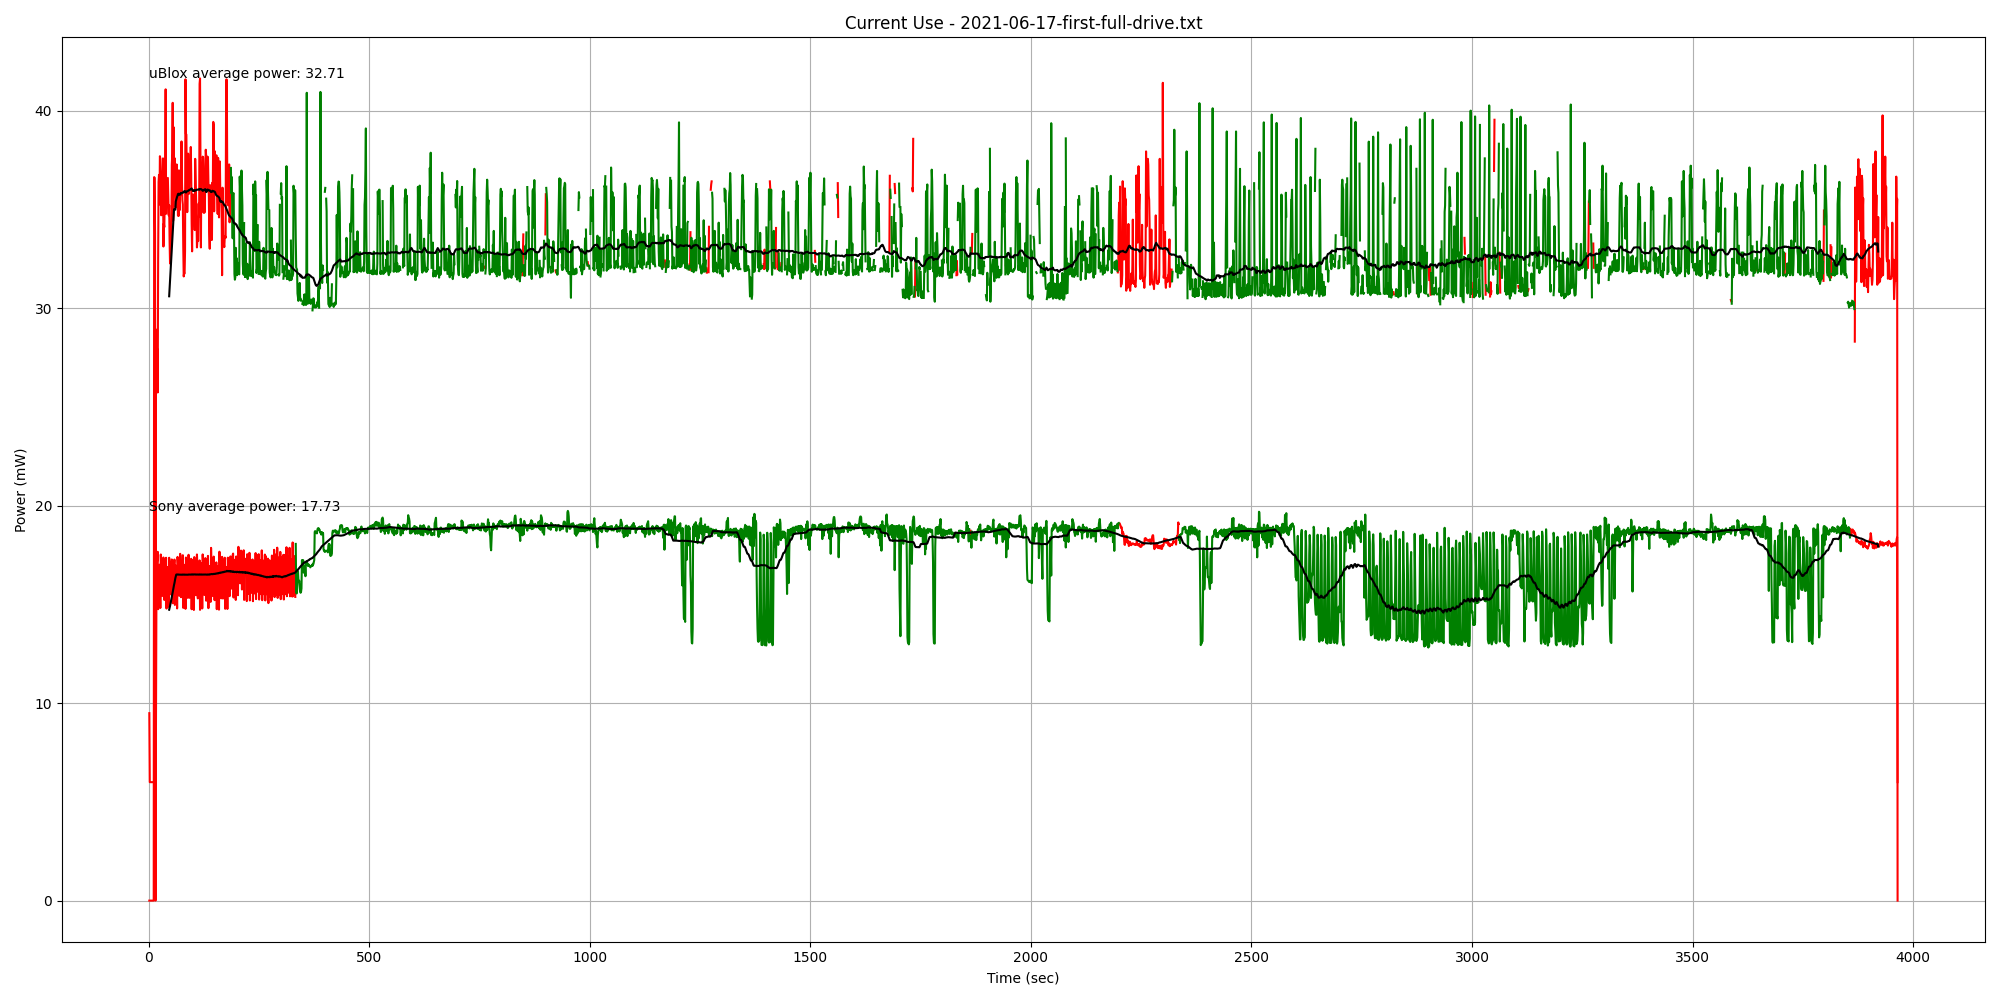
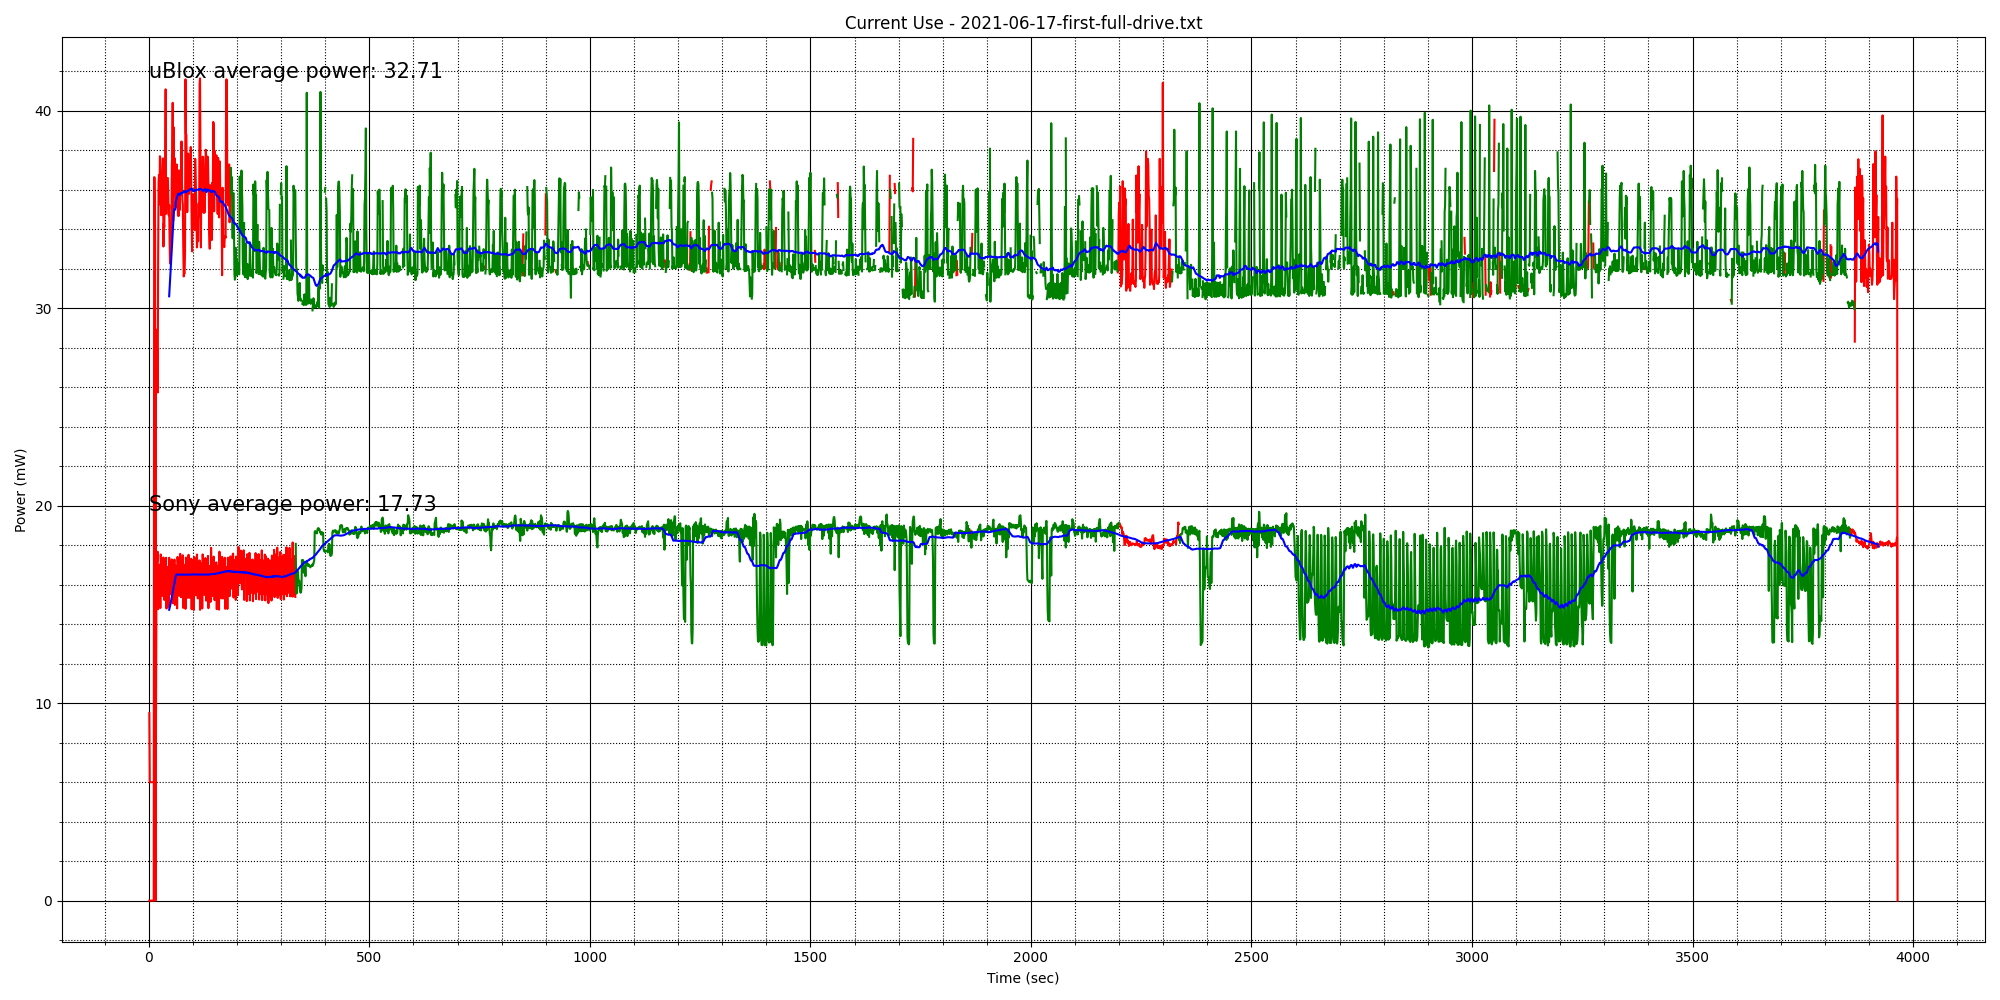
update currents plot to have major/minor grid

diff --git a/src/app/datalogger/process.py b/src/app/datalogger/process.py
@@ -251,12 +251,15 @@ class Log:
 
             ax = unlocked['power_mw'].plot(grid=True, figsize=(20, 10), ax=ax, color='red')
             locked['power_mw'].plot(grid=True, ax=ax, color='green')
-            df['power_mw_90secroll'].plot(grid=True, ax=ax, color='black')
+            df['power_mw_90secroll'].plot(grid=True, ax=ax, color='blue')
 
             # add annotation with average power
             ann = f"{dutname[dut]} average power: {df['power_mw'].mean():.2f}"
-            ax.annotate(xy=[0, df['power_mw'].max()], s=ann)
+            ax.annotate(xy=[0, df['power_mw'].max()], s=ann, size=15)
 
+            ax.minorticks_on()
+            ax.grid(which='major', linestyle='-', color='black')
+            ax.grid(which='minor', linestyle=':', color='black')
 
         ax.set_title(f'Current Use - {os.path.basename(sys.argv[1])}')
         ax.set_xlabel('Time (sec)')
